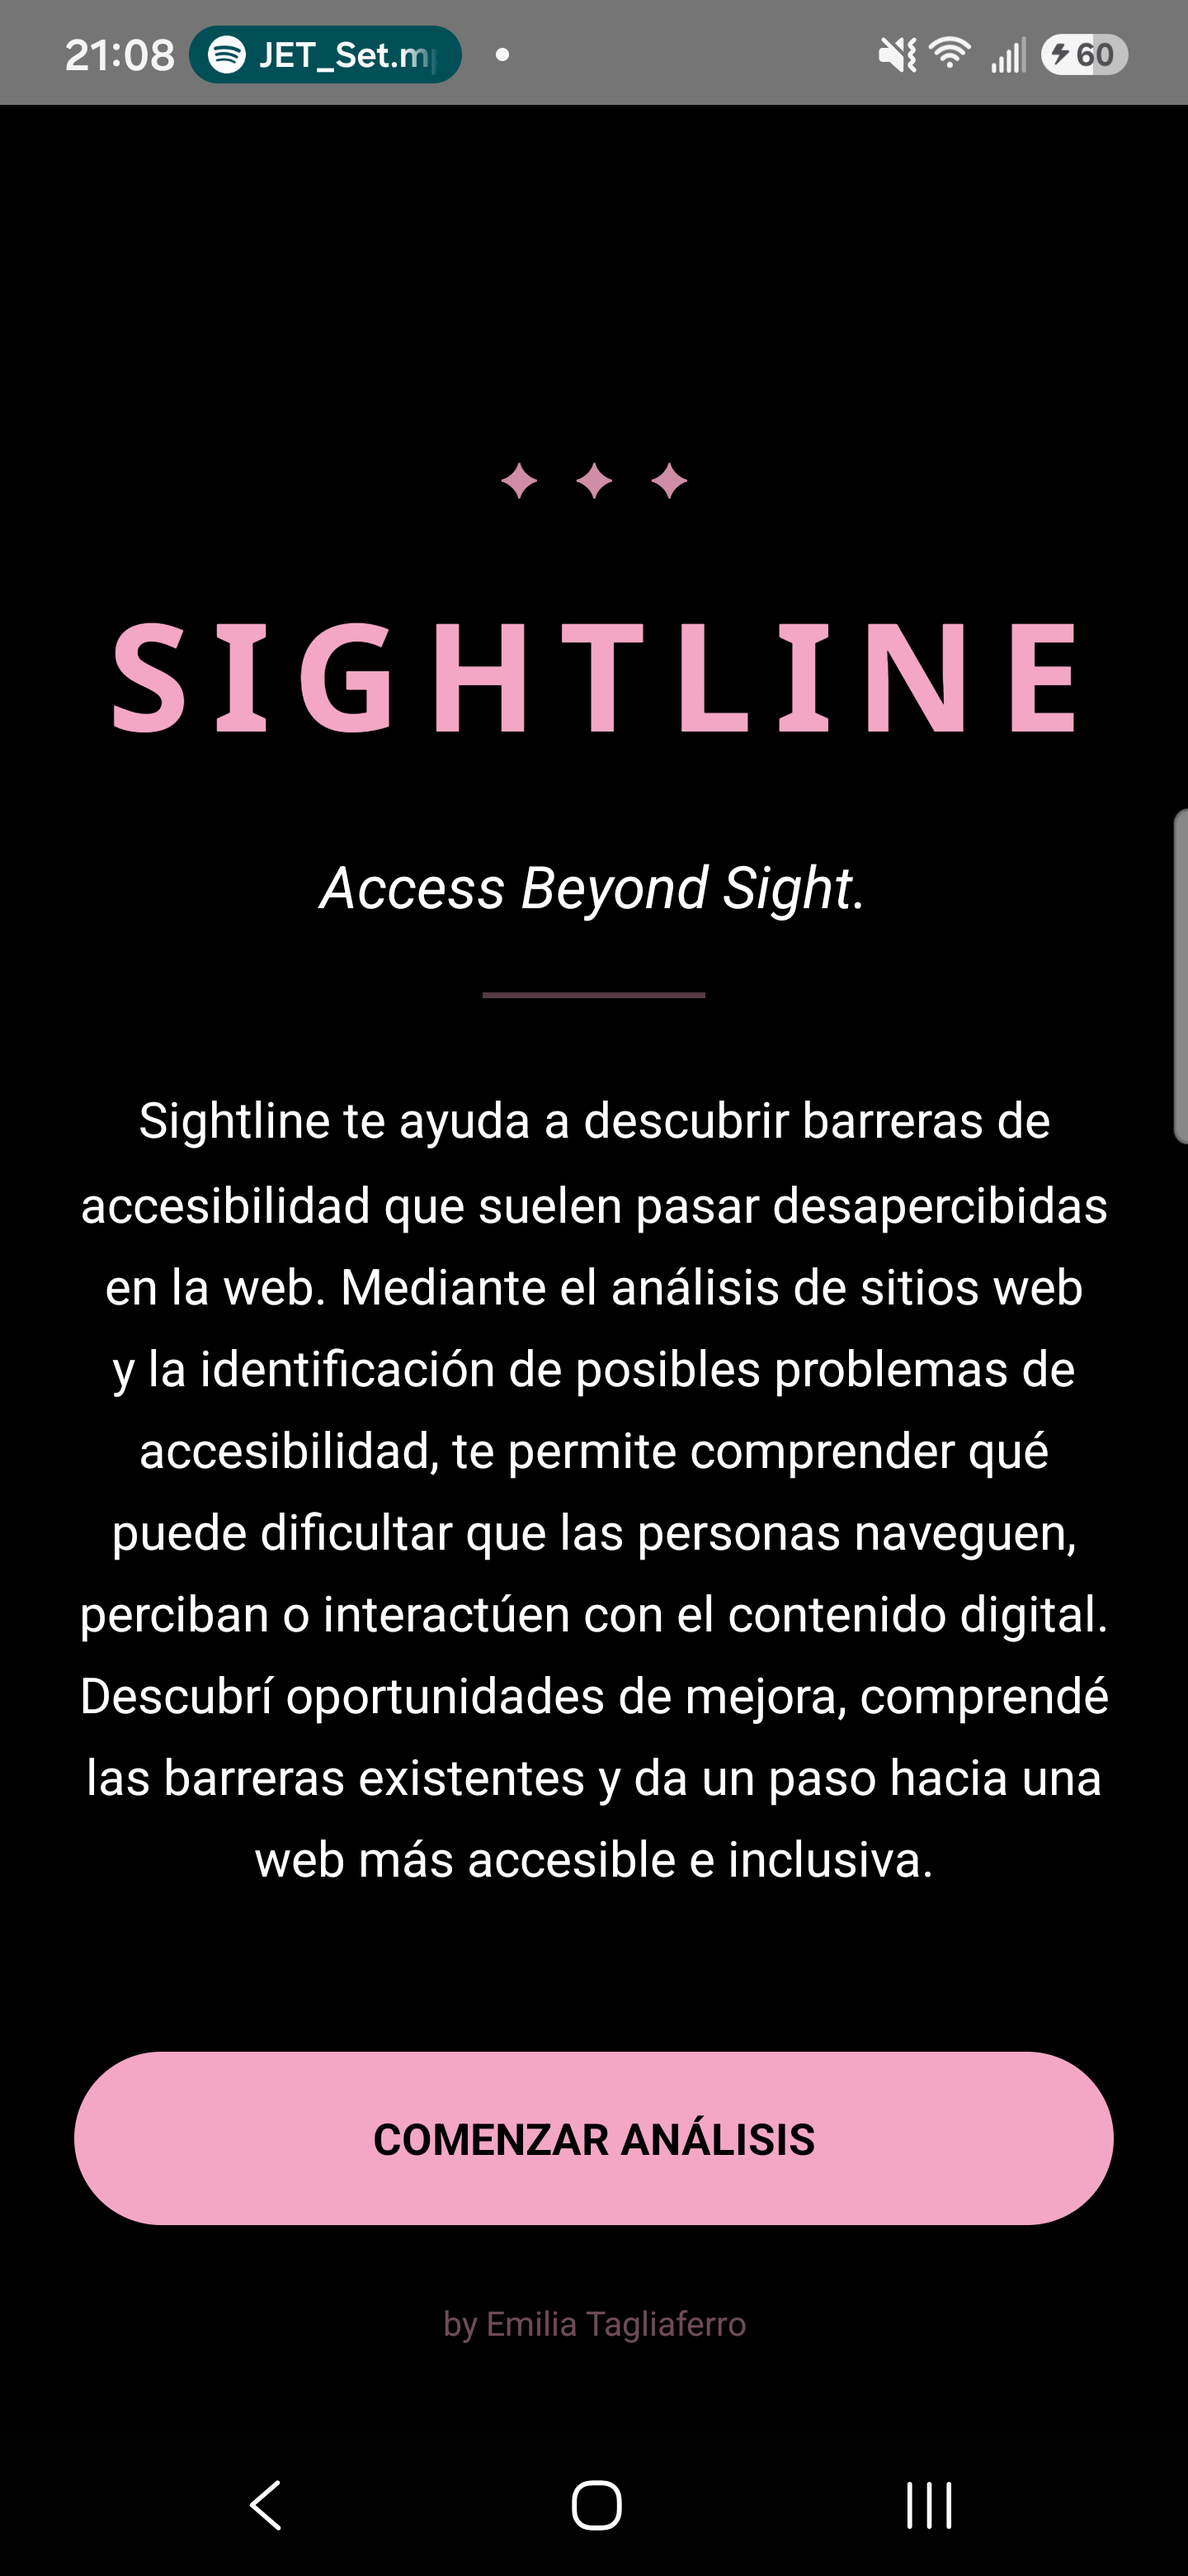
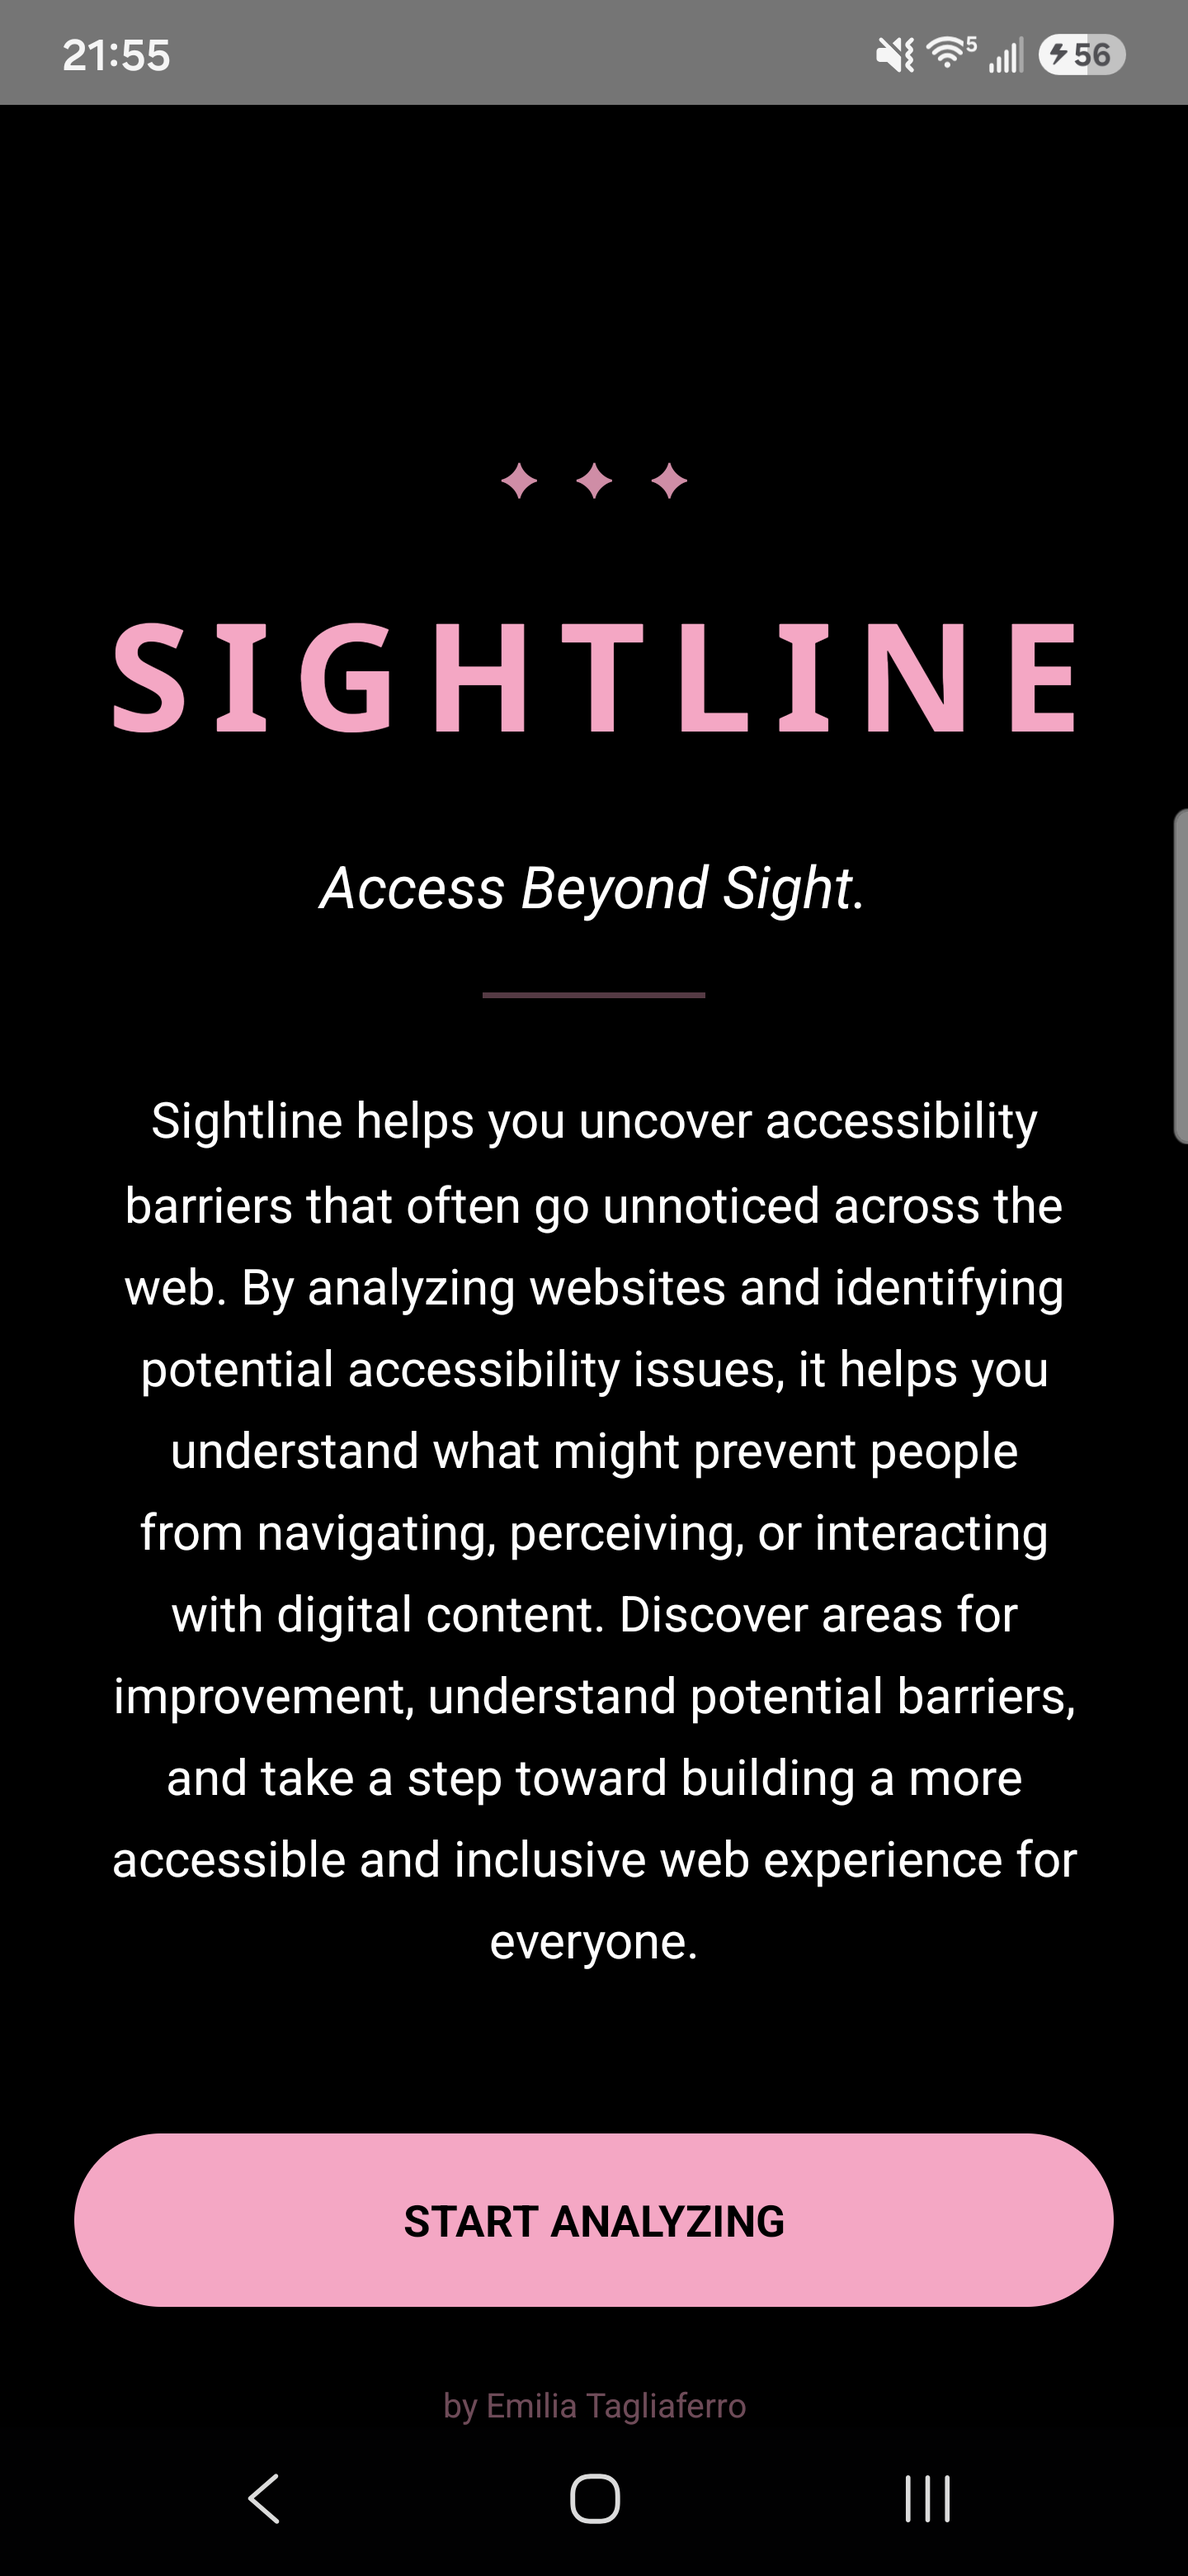
Refresh docs gallery: full app tour in English

diff --git a/README.md b/README.md
@@ -12,9 +12,21 @@ more. It scores every page 0–100, shows a marked-up preview, and asks
 **Muse Spark** (Meta Model API) for a plain-words verdict plus a corrected
 code fix, issue by issue.
 
-| Welcome | Menu | Results | History |
+| Welcome | Key setup | Menu | URL tool |
 |---|---|---|---|
-| ![welcome](docs/01-welcome.png) | ![menu](docs/02-menu.png) | ![results](docs/03-results.png) | ![history](docs/04-history.png) |
+| ![welcome](docs/01-welcome.png) | ![setup](docs/02-setup.png) | ![menu](docs/03-menu.png) | ![url tool](docs/04-url-tool.png) |
+
+| Results | AI verdict | AI fix | Preview |
+|---|---|---|---|
+| ![results](docs/05-results.png) | ![verdict](docs/06-verdict.png) | ![fix](docs/07-fix.png) | ![preview](docs/08-preview.png) |
+
+| HTML tool | Settings | History | Help |
+|---|---|---|---|
+| ![html](docs/09-html.png) | ![settings](docs/10-settings.png) | ![history](docs/11-history.png) | ![help](docs/12-help.png) |
+
+| About |
+|---|
+| ![about](docs/13-about.png) |
 
 ## Features
 
